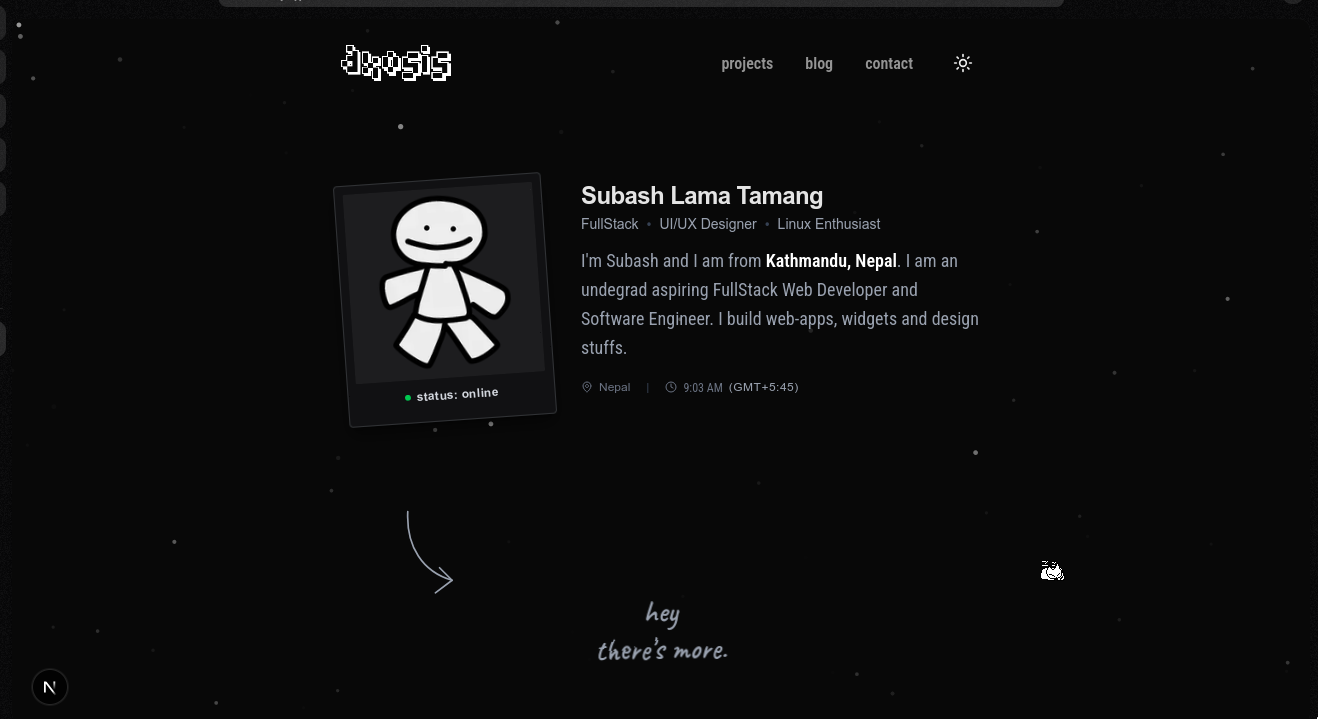
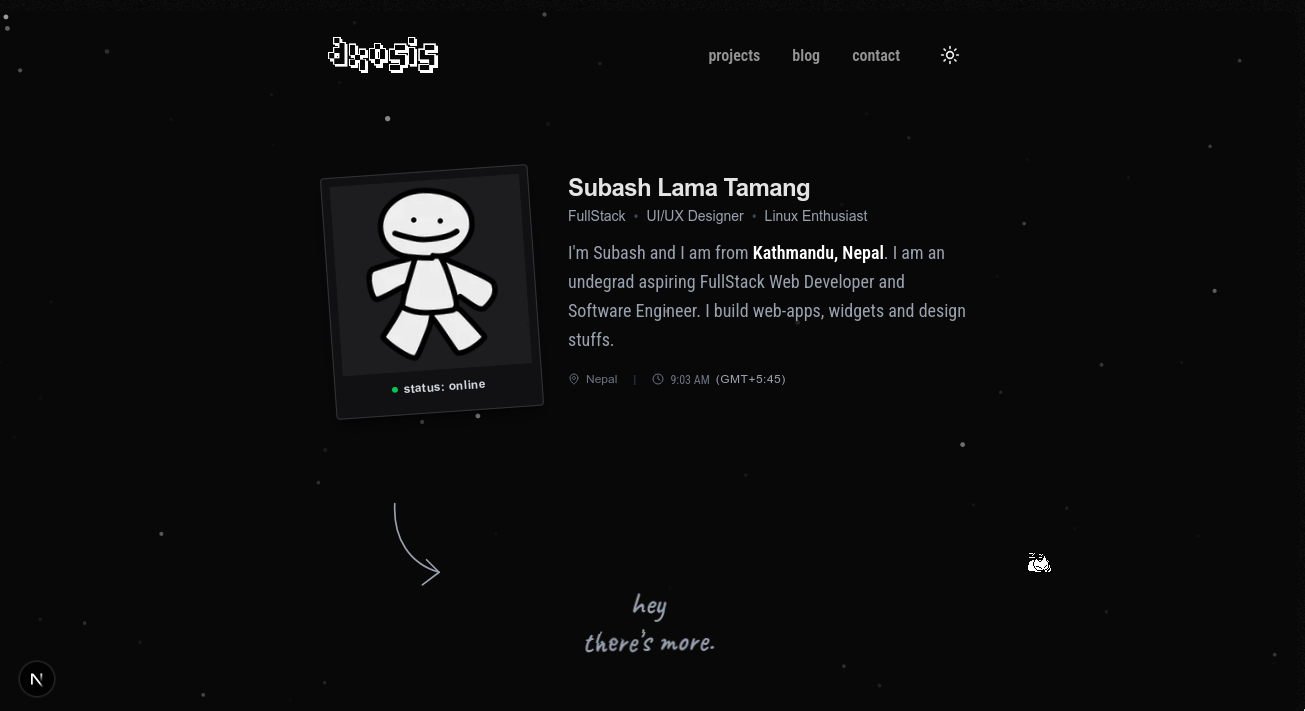
fix: change to blogs page and misc ui changes

diff --git a/data/blogData.ts b/data/blogData.ts
@@ -16,7 +16,7 @@ export const BLOG_POSTS: BlogPost[] = [
     excerpt:
       "This site has been rebuilt three times. Here is what each version taught me, from a single HTML file to the Next.js app you are reading right now.",
     date: "Aug 20, 2026",
-    slug: "/blog/from-html-to-nextjs",
+    slug: "/blogs/from-html-to-nextjs",
     isFeatured: false,
     content: `
       <p>This website has been rebuilt three times. Every version taught me something different about web development, and looking back, I can see my own growth as a developer just by comparing the old code to what runs today.</p>
@@ -56,7 +56,7 @@ export const BLOG_POSTS: BlogPost[] = [
     excerpt:
       "I left Windows for Fedora, then Arch, then NixOS. Each switch happened for a real reason, including one I did not see coming.",
     date: "Jul 14, 2026",
-    slug: "/blog/windows-to-nixos",
+    slug: "/blogs/windows-to-nixos",
     isFeatured: true,
     content: `
       <p>I switched away from Windows a while back, and since then I have hopped between three Linux distributions. Each one solved a problem the last one had, and each one taught me something new about how Linux actually works.</p>
@@ -95,7 +95,7 @@ export const BLOG_POSTS: BlogPost[] = [
     excerpt:
       "The Navigation Map on my homepage is a real force directed graph, not a static image. Here is how I built it and what broke along the way.",
     date: "Jun 02, 2026",
-    slug: "/blog/building-the-navigation-graph",
+    slug: "/blogs/building-the-navigation-graph",
     isFeatured: false,
     content: `
       <p>If you scroll down on my homepage, you will find a small interactive graph connecting this site's pages, projects and blog posts. It is not a static illustration. It is a live force simulation you can drag, zoom and click through to actually navigate the site.</p>
@@ -142,7 +142,7 @@ export const BLOG_POSTS: BlogPost[] = [
     excerpt:
       "Long before any of this, there was a blue Turbo C screen in school and a single printf statement in college. Here is where my interest in programming actually began.",
     date: "May 10, 2026",
-    slug: "/blog/hello-world",
+    slug: "/blogs/hello-world",
     isFeatured: false,
     content: `
       <p>Every developer has a first program. Mine was not on this site, or in any framework, or even on a modern editor. It started on an old blue screen, years before I knew what a framework was.</p>

diff --git a/app/projects/page.tsx b/app/projects/page.tsx
@@ -38,7 +38,7 @@ export default function ProjectsPage() {
         </p>
       </div>
       <div className="grid grid-cols-1 gap-6 px-4 sm:px-0">
-        {PROJECTS.map((project) => (
+        {PROJECTS.map((project, index) => (
           <article
             key={project.id}
             className="group relative flex flex-col overflow-hidden rounded-xl border border-gray-200 bg-white transition-all hover:border-gray-300 hover:shadow-sm dark:border-[#323437] dark:bg-[#080808] dark:hover:border-gray-600"
@@ -49,6 +49,7 @@ export default function ProjectsPage() {
                 alt={`${project.title} project preview`}
                 fill
                 sizes="(max-width: 672px) 100vw, 672px"
+                priority={index === 0}
                 className="object-contain transition-transform duration-500 group-hover:scale-[1.015]"
               />
               {!project.image && (

diff --git a/components/layouts/navbar.tsx b/components/layouts/navbar.tsx
@@ -9,7 +9,7 @@ import ThemeToggle from "./theme-toggle";
 
 const navLinks = [
   { href: "/projects", label: "projects" },
-  { href: "/blog", label: "blog" },
+  { href: "/blogs", label: "blogs" },
   { href: "/contact", label: "contact" },
 ];
 
@@ -51,7 +51,7 @@ export default function Navbar() {
     opacity: 0,
   });
   const isActive = (href: string) =>
-    pathname === href || (href === "/blog" && pathname.startsWith("/blog/"));
+    pathname === href || (href === "/blogs" && pathname.startsWith("/blogs/"));
 
   const moveIndicator = useCallback((element: HTMLElement) => {
     setIndicatorStyle({

diff --git a/app/blogs/[slug]/page.tsx b/app/blogs/[slug]/page.tsx
@@ -11,7 +11,7 @@ const BlogPost = () => {
   const params = useParams<{ slug: string }>();
   const slug = params.slug;
 
-  const fullSlug = `/blog/${slug}`;
+  const fullSlug = `/blogs/${slug}`;
   const post = BLOG_POSTS.find((p) => p.slug === fullSlug);
 
   useSeo({
@@ -48,7 +48,7 @@ const BlogPost = () => {
           Post not found
         </h2>
         <Link
-          href="/blog"
+          href="/blogs"
           className="text-gray-600 dark:text-gray-400 hover:text-black dark:hover:text-white transition-colors underline"
         >
           Back to Writing

diff --git a/app/blogs/page.tsx b/app/blogs/page.tsx
@@ -10,12 +10,12 @@ const Blog = () => {
     title: "Writing",
     description:
       "Articles by Subash Lama Tamang on React, interface design, dark mode, graph visualization, state management, and frontend performance.",
-    path: "/blog",
+    path: "/blogs",
     jsonLd: {
       "@context": "https://schema.org",
       "@type": "Blog",
       name: "Writing by Subash Lama Tamang",
-      url: `${SITE_URL}/blog`,
+      url: `${SITE_URL}/blogs`,
       blogPost: BLOG_POSTS.map((post) => ({
         "@type": "BlogPosting",
         headline: post.title,

diff --git a/components/ui/graph-client.tsx b/components/ui/graph-client.tsx
@@ -63,7 +63,7 @@ const Graph = () => {
     const nodes: CustomNode[] = [
       { id: "about", name: "About", path: "/", val: NODE_VAL },
       { id: "projects", name: "Projects", path: "/projects", val: NODE_VAL },
-      { id: "blog", name: "Blog", path: "/blog", val: NODE_VAL },
+      { id: "blog", name: "Blog", path: "/blogs", val: NODE_VAL },
       { id: "contact", name: "Contact", path: "/contact", val: NODE_VAL },
       ...PROJECTS.map(
         (project): CustomNode => ({

diff --git a/app/page.tsx b/app/page.tsx
@@ -369,7 +369,7 @@ function RecentCards() {
           ))}
         </div>
         <Link
-          href="/blog"
+          href="/blogs"
           className="inline-flex items-center gap-1 text-xs font-medium text-gray-500 hover:text-black dark:text-gray-400 dark:hover:text-white transition-colors self-start ml-2.5 sm:ml-3 group"
         >
           See more articles
